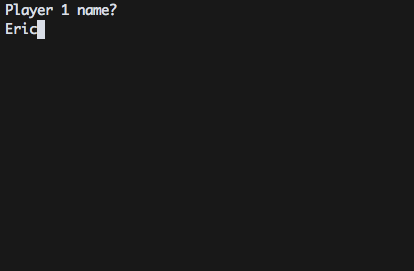
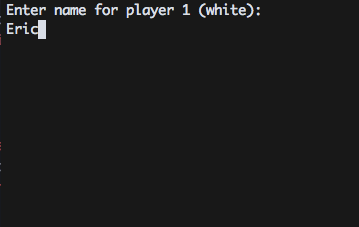
Added promotion photos

Changed region(s): [[0.0, 0.0, 0.7354, 0.185]]

diff --git a/game.rb b/game.rb
@@ -84,10 +84,10 @@ end
 
 if __FILE__ == $PROGRAM_NAME
   system("clear")
-  print("Player 1 name?\n")
+  print("Enter name for player 1 (white):\n")
   player1name = gets.chomp
   system("clear")
-  print("Player 2 name?\n")
+  print("Enter name for player 2 (black):\n")
   player2name = gets.chomp
   the_game = Game.new(player1name, player2name)
   the_game.play
